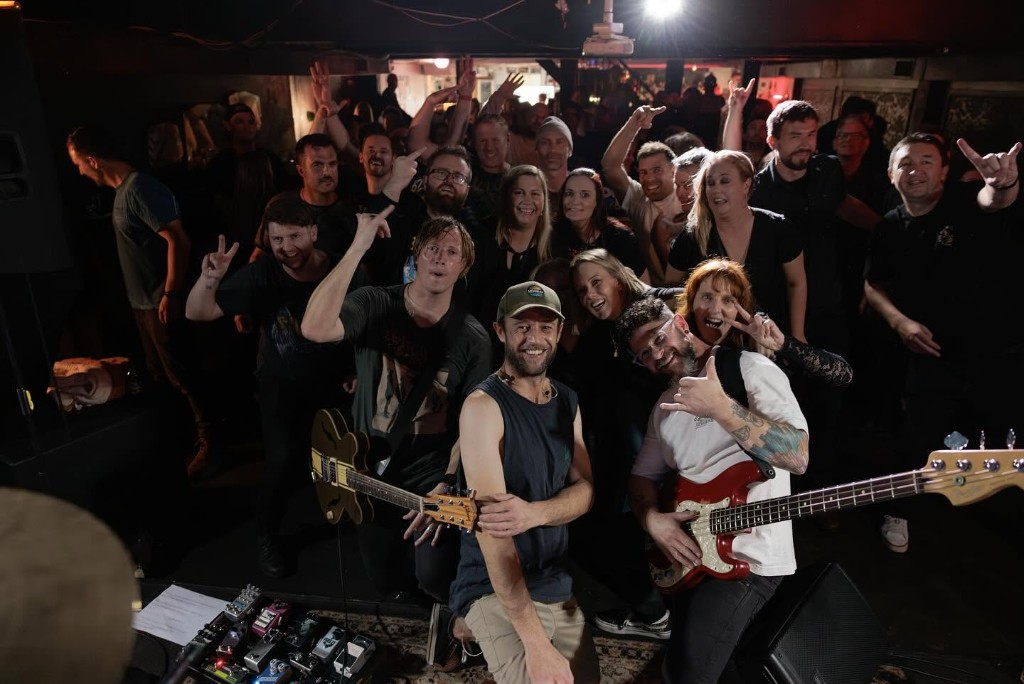
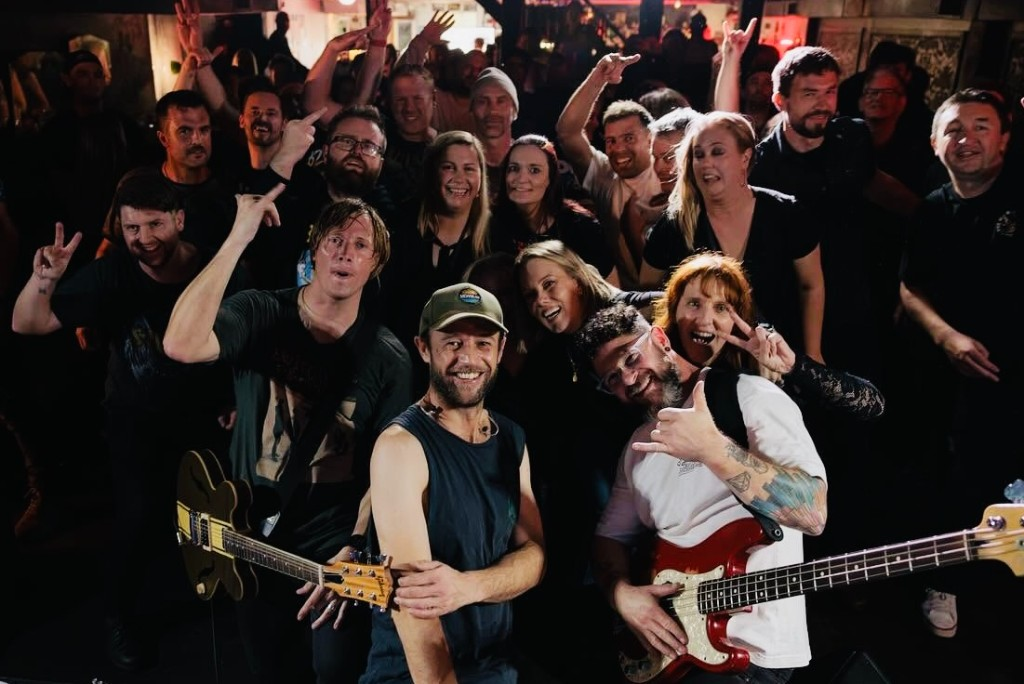
Clean up gallery photo duplicates and refresh band crowd shot.
Remove near-duplicate live photos and replace the band-with-crowd image with the edited version.

diff --git a/components/gallery.tsx b/components/gallery.tsx
@@ -64,16 +64,6 @@ export function Gallery() {
       span: "col-span-1 row-span-2",
     },
     {
-      src: "/images/dumpweed-live-performance.png",
-      alt: "Musician performing live with arms raised under pink stage lights",
-      span: "col-span-1 row-span-1",
-    },
-    {
-      src: "/images/dumpweed-red-lighting.png",
-      alt: "Dumpweed live on stage with red lighting and cosmic backdrop",
-      span: "col-span-1 row-span-1",
-    },
-    {
       src: "/images/dumpweed-vocalist-bass.png",
       alt: "Vocalist singing and playing pink bass guitar on stage",
       span: "col-span-1 row-span-2",
